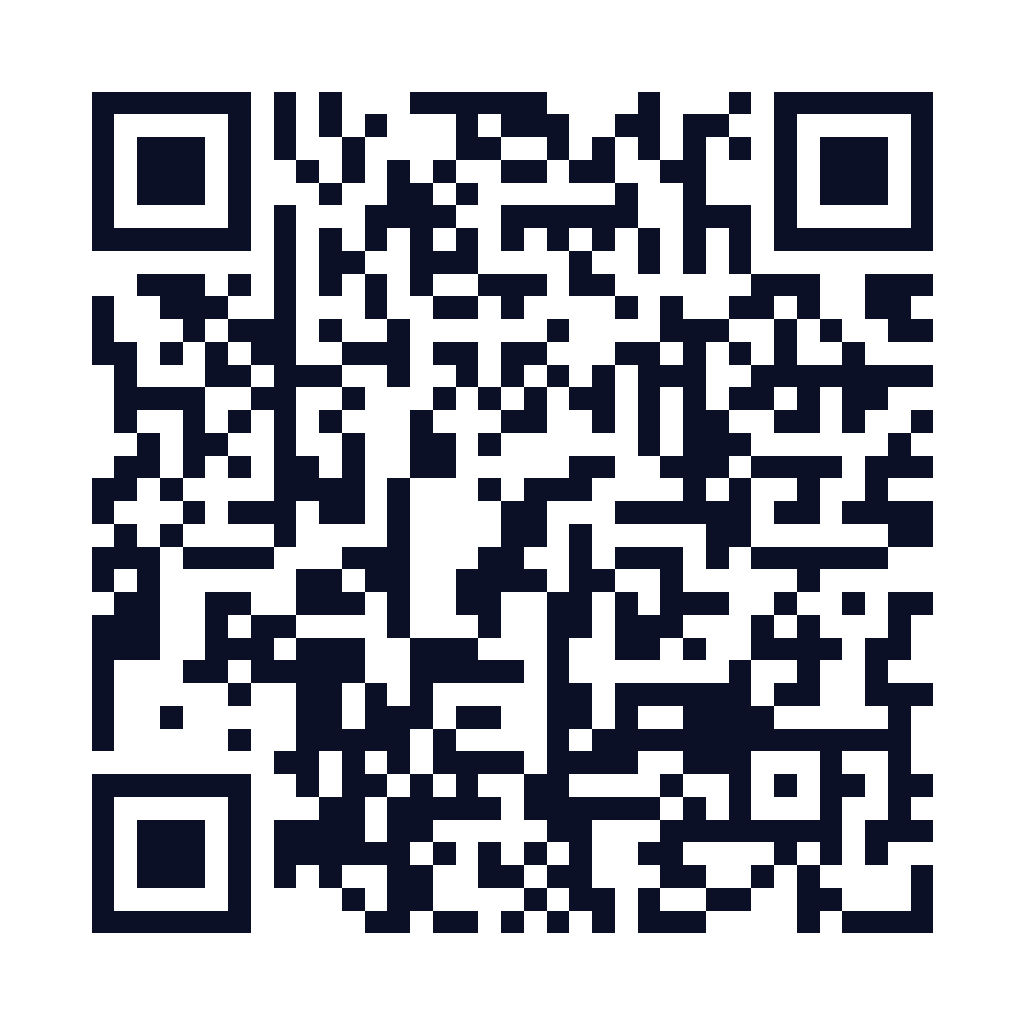
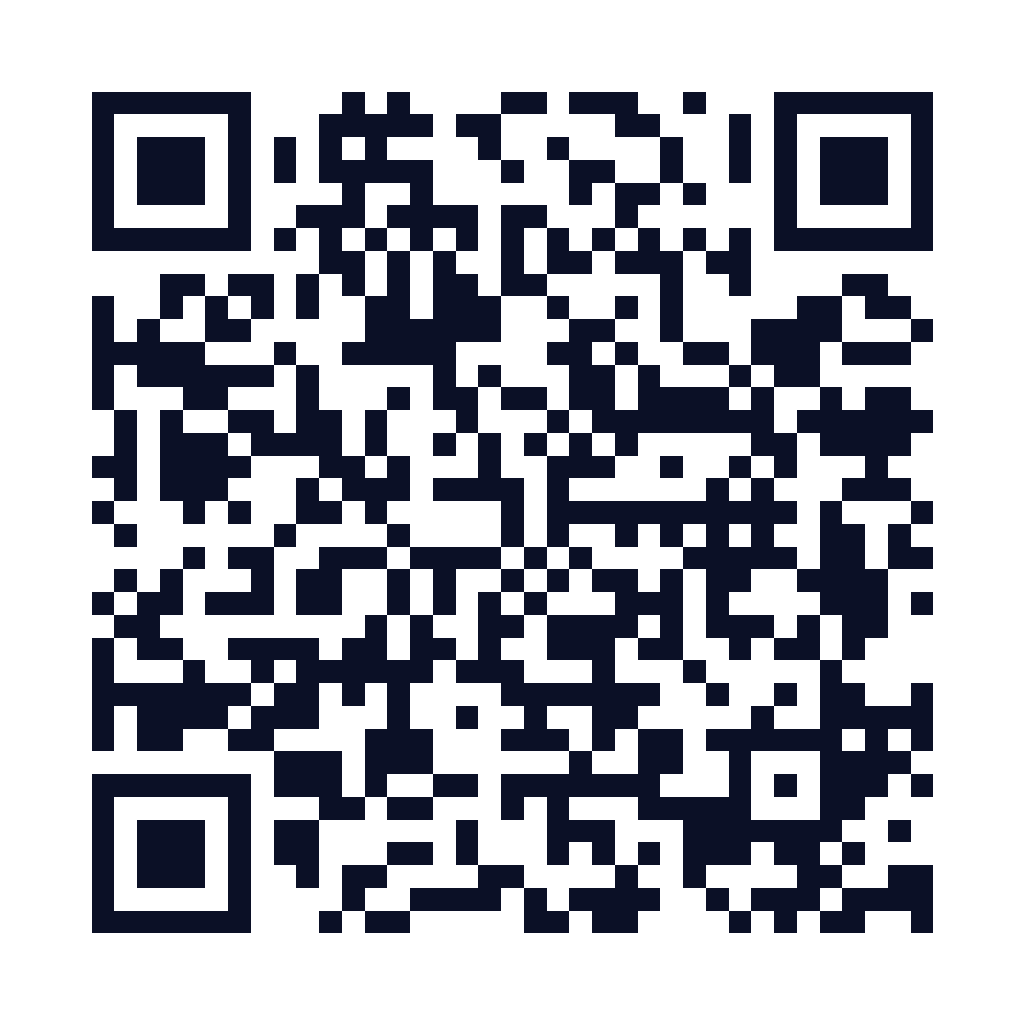
Point canonical URLs and QR at the Vercel production domain

Changed region(s): [[0.0625, 0.0625, 0.9375, 0.9375]]

diff --git a/src/components/home/ProfileShowcase.tsx b/src/components/home/ProfileShowcase.tsx
@@ -182,13 +182,13 @@ export function ProfileShowcase() {
                       </div>
                     </div>
 
-                    <div className="col-span-3 row-span-2 flex items-center justify-between gap-3 rounded-[18px] border border-white/15 bg-white/[0.08] p-3 backdrop-blur-md">
-                      <div className="min-w-0">
+                    <div className="col-span-3 row-span-2 flex flex-col justify-center gap-1.5 rounded-[18px] border border-white/15 bg-white/[0.08] p-2 backdrop-blur-md sm:flex-row sm:items-center sm:justify-between sm:gap-3 sm:p-3">
+                      <div className="order-2 min-w-0 sm:order-1">
                         <p className="text-[0.5rem] font-semibold uppercase tracking-[0.16em] text-white/50">
                           Public link
                         </p>
-                        <p className="mt-0.5 break-all text-[0.72rem] font-semibold leading-snug text-white">
-                          marjenesoftwaredev.com/arsene
+                        <p className="mt-0.5 text-[0.62rem] font-semibold leading-snug text-white sm:text-[0.72rem]">
+                          <span className="inline-block">knowme-arsene</span><span className="inline-block">.vercel.app</span><span className="inline-block">/arsene</span>
                         </p>
                       </div>
                       <Image
@@ -196,7 +196,7 @@ export function ProfileShowcase() {
                         alt=""
                         width={1024}
                         height={1024}
-                        className="h-14 w-14 shrink-0 rounded-lg bg-white p-1 sm:h-16 sm:w-16"
+                        className="order-1 h-9 w-9 shrink-0 rounded-md bg-white p-0.5 sm:order-2 sm:h-16 sm:w-16 sm:rounded-lg sm:p-1"
                       />
                     </div>
                   </div>

diff --git a/src/lib/site.ts b/src/lib/site.ts
@@ -2,9 +2,7 @@ export const SITE = {
   name: "KNOW ME",
   tagline: "Your Identity. Your Story. Your Connection.",
   promise: "Your entire identity. One digital experience.",
-  url:
-    process.env.NEXT_PUBLIC_SITE_URL?.replace(/\/$/, "") ??
-    "https://www.marjenesoftwaredev.com",
+  url: "https://knowme-arsene.vercel.app",
   company: {
     name: "M.A.R.J.E.N.E Software Development",
     shortName: "M.A.R.J.E.N.E",

diff --git a/docs/DEPLOYMENT.md b/docs/DEPLOYMENT.md
@@ -6,15 +6,9 @@
 - A host that supports Next.js server rendering and image optimization (Vercel is the reference target)
 - The production origin, for canonical URLs and QR generation
 
-## Environment
+## Canonical origin
 
-| Variable | Required | Example |
-| --- | --- | --- |
-| `NEXT_PUBLIC_SITE_URL` | Recommended | `https://www.marjenesoftwaredev.com` |
-
-If unset, the app falls back to `https://www.marjenesoftwaredev.com`. Set it explicitly for previews and any custom domain so canonical links, sitemap entries, Open Graph URLs and the profile QR all point at the right origin.
-
-`NEXT_PUBLIC_*` values are inlined at build time; rebuild after changing them.
+The public origin is `https://knowme-arsene.vercel.app`, defined as `SITE.url` in `src/lib/site.ts`. It drives canonical links, Open Graph and Twitter URLs, sitemap and robots entries, and the profile QR. If the production domain changes, update that value and rebuild.
 
 ## Build & run
 
@@ -30,10 +24,9 @@ The build statically generates the homepage and every published profile. `src/da
 ## Vercel
 
 1. Import the repository; the framework is detected as Next.js.
-2. Add `NEXT_PUBLIC_SITE_URL` for Production and Preview environments.
-3. Deploy. No database, storage bucket or cron job is required.
-4. Attach the production domain and redeploy so canonical URLs and OG tags use it.
-5. Regenerate the homepage demo QR if the domain changed:
+2. Deploy. No database, storage bucket or cron job is required.
+3. Keep `knowme-arsene.vercel.app` as the production domain, or update `SITE.url` in `src/lib/site.ts` if a different domain is attached, then redeploy.
+4. Regenerate the homepage demo QR if the domain changed:
 
    ```bash
    node scripts/generate-qr.mjs
@@ -69,7 +62,7 @@ The video section uses TikTok’s official embed (`https://www.tiktok.com/embed/
 ## Post-deploy verification
 
 - [ ] `/` and `/arsene` return 200; an unknown slug returns 404.
-- [ ] `/sitemap.xml` lists only published profiles and uses the production origin.
+- [ ] `/sitemap.xml` lists only published profiles and uses `https://knowme-arsene.vercel.app`.
 - [ ] Canonical, Open Graph and Twitter tags reference the production URL and OG image.
 - [ ] `/api/vcard/arsene` downloads a `.vcf` with no unapproved phone number.
 - [ ] QR PNG/SVG downloads scan and open the permanent profile URL.

diff --git a/README.md b/README.md
@@ -27,12 +27,7 @@ npm run build
 npm run start
 ```
 
-Set `NEXT_PUBLIC_SITE_URL` when the public origin differs from `https://www.marjenesoftwaredev.com`. The value is used for canonical URLs, Open Graph URLs, the sitemap and the QR code encoded on the profile.
-
-```bash
-# .env.local
-NEXT_PUBLIC_SITE_URL=https://your-domain.example
-```
+The canonical public origin is `https://knowme-arsene.vercel.app`, defined as `SITE.url` in `src/lib/site.ts`. It is used for canonical URLs, Open Graph URLs, the sitemap and the QR code encoded on the profile. Update it there if the production domain changes.
 
 ## Routes
 
